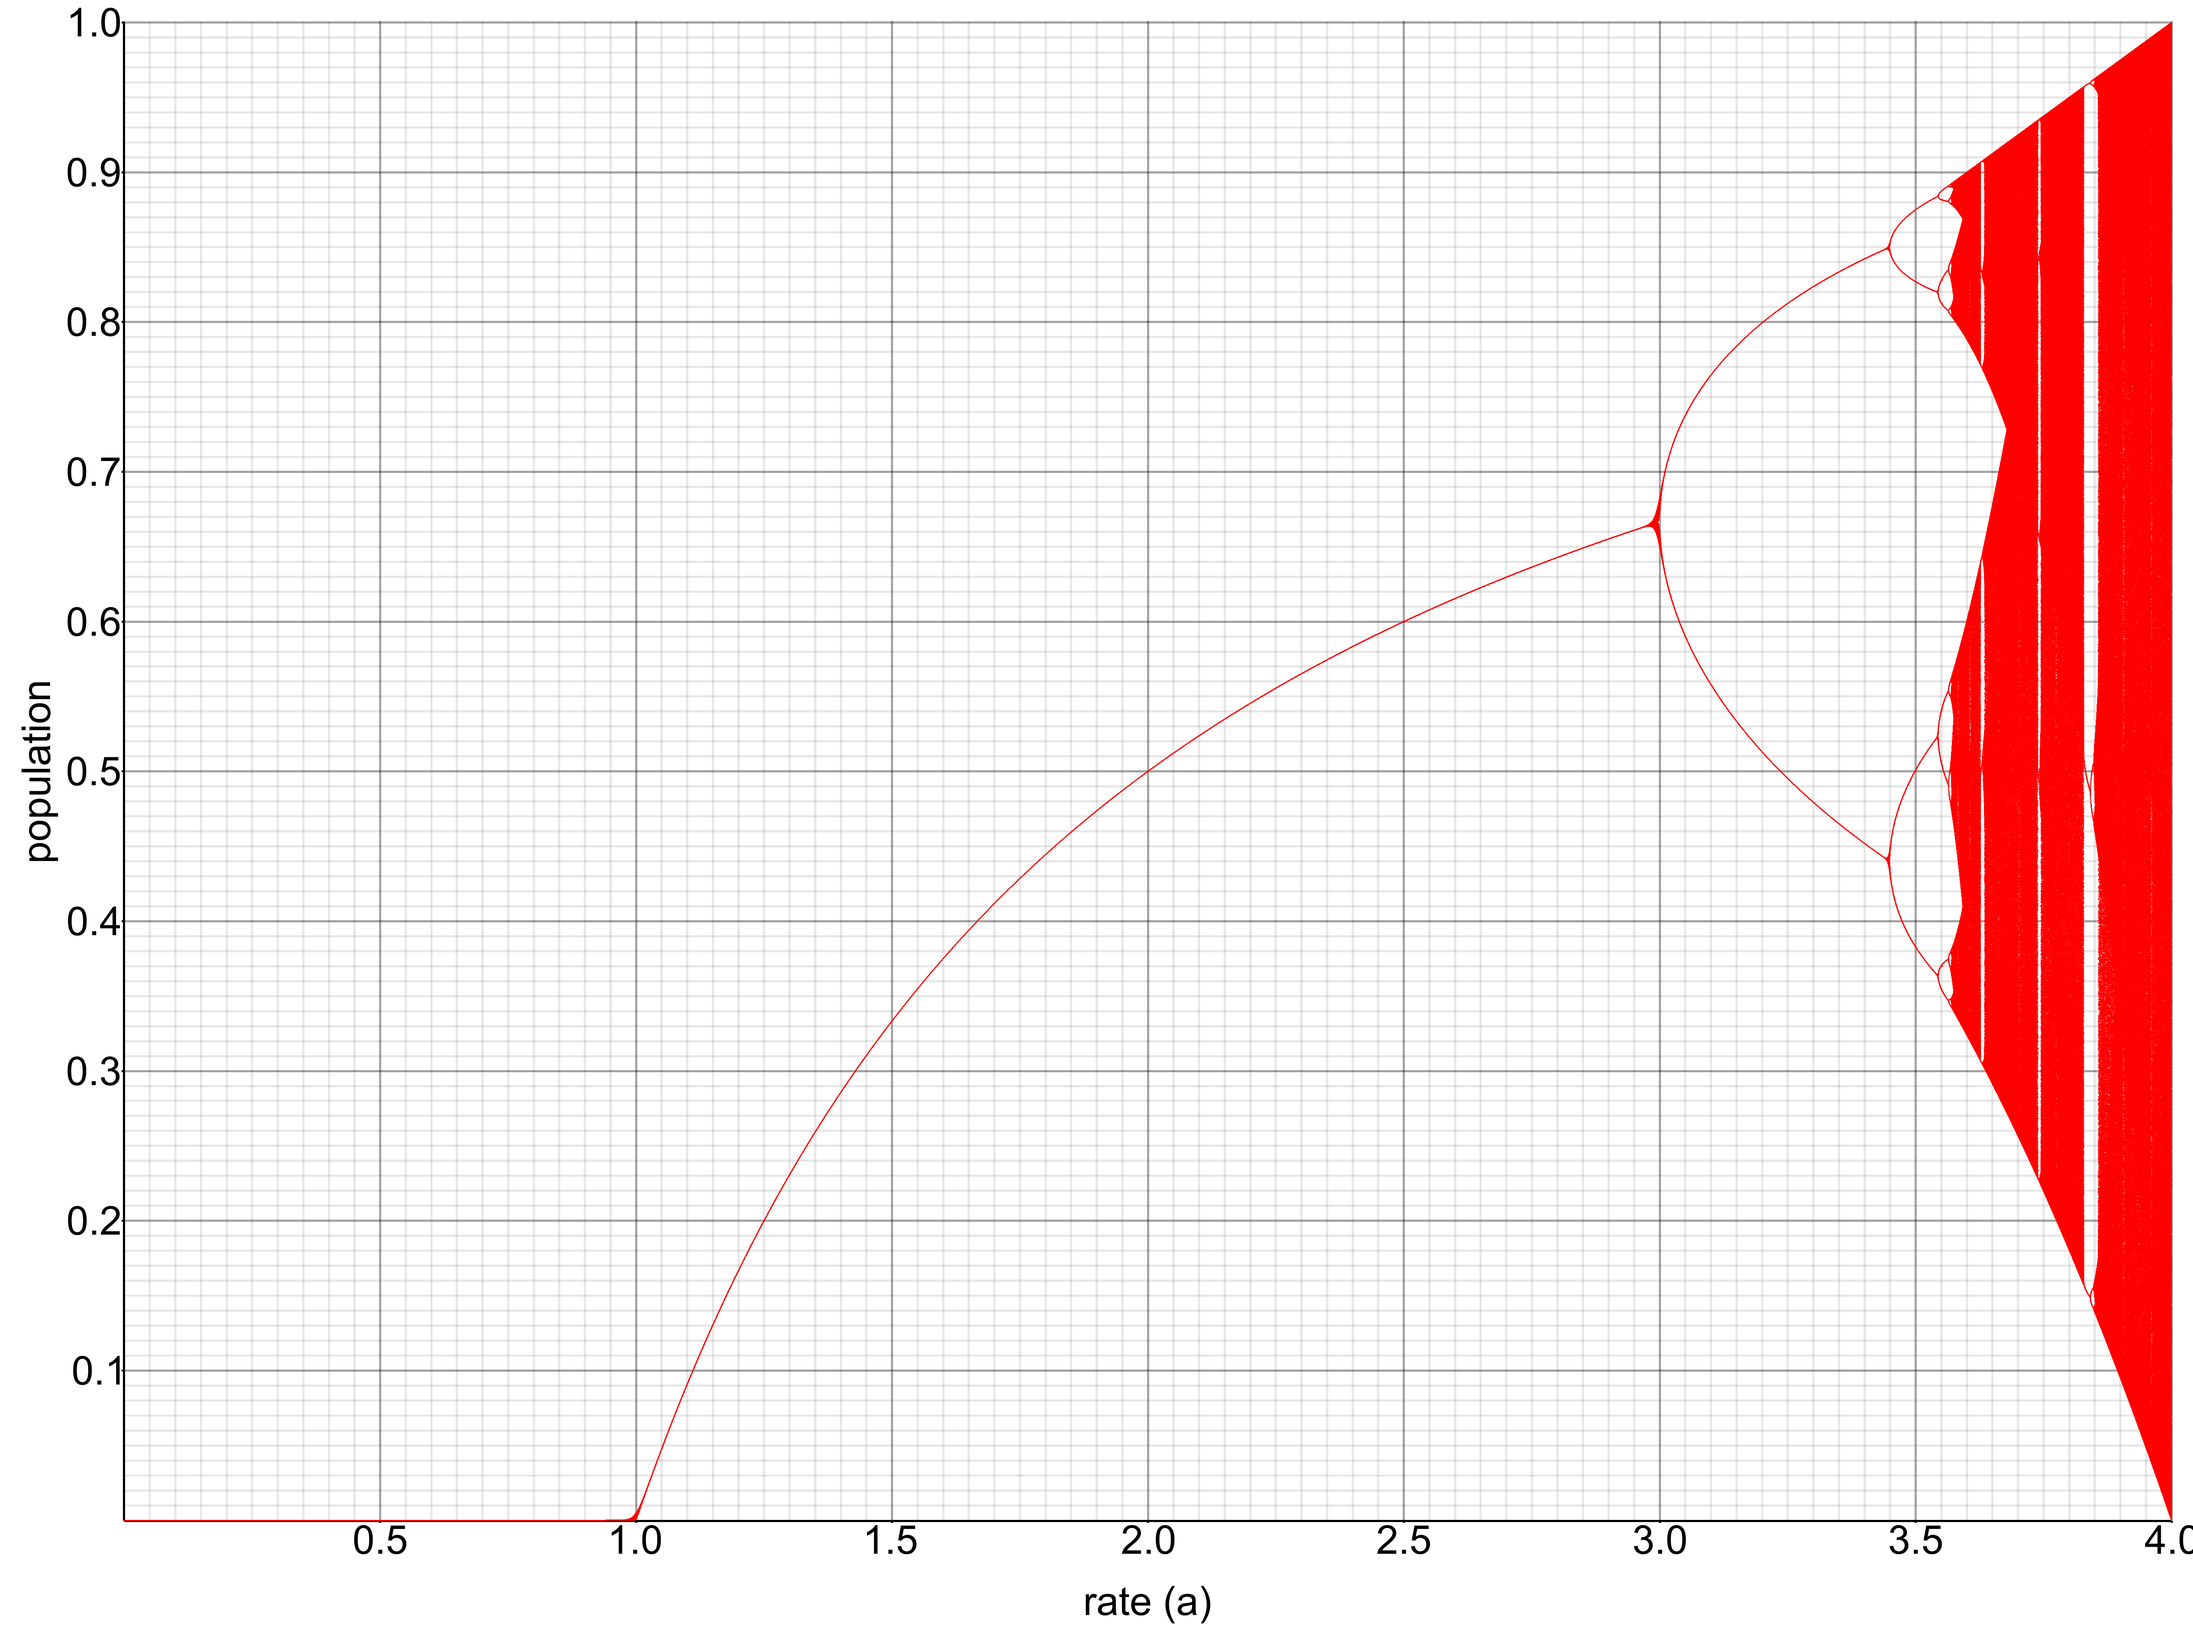
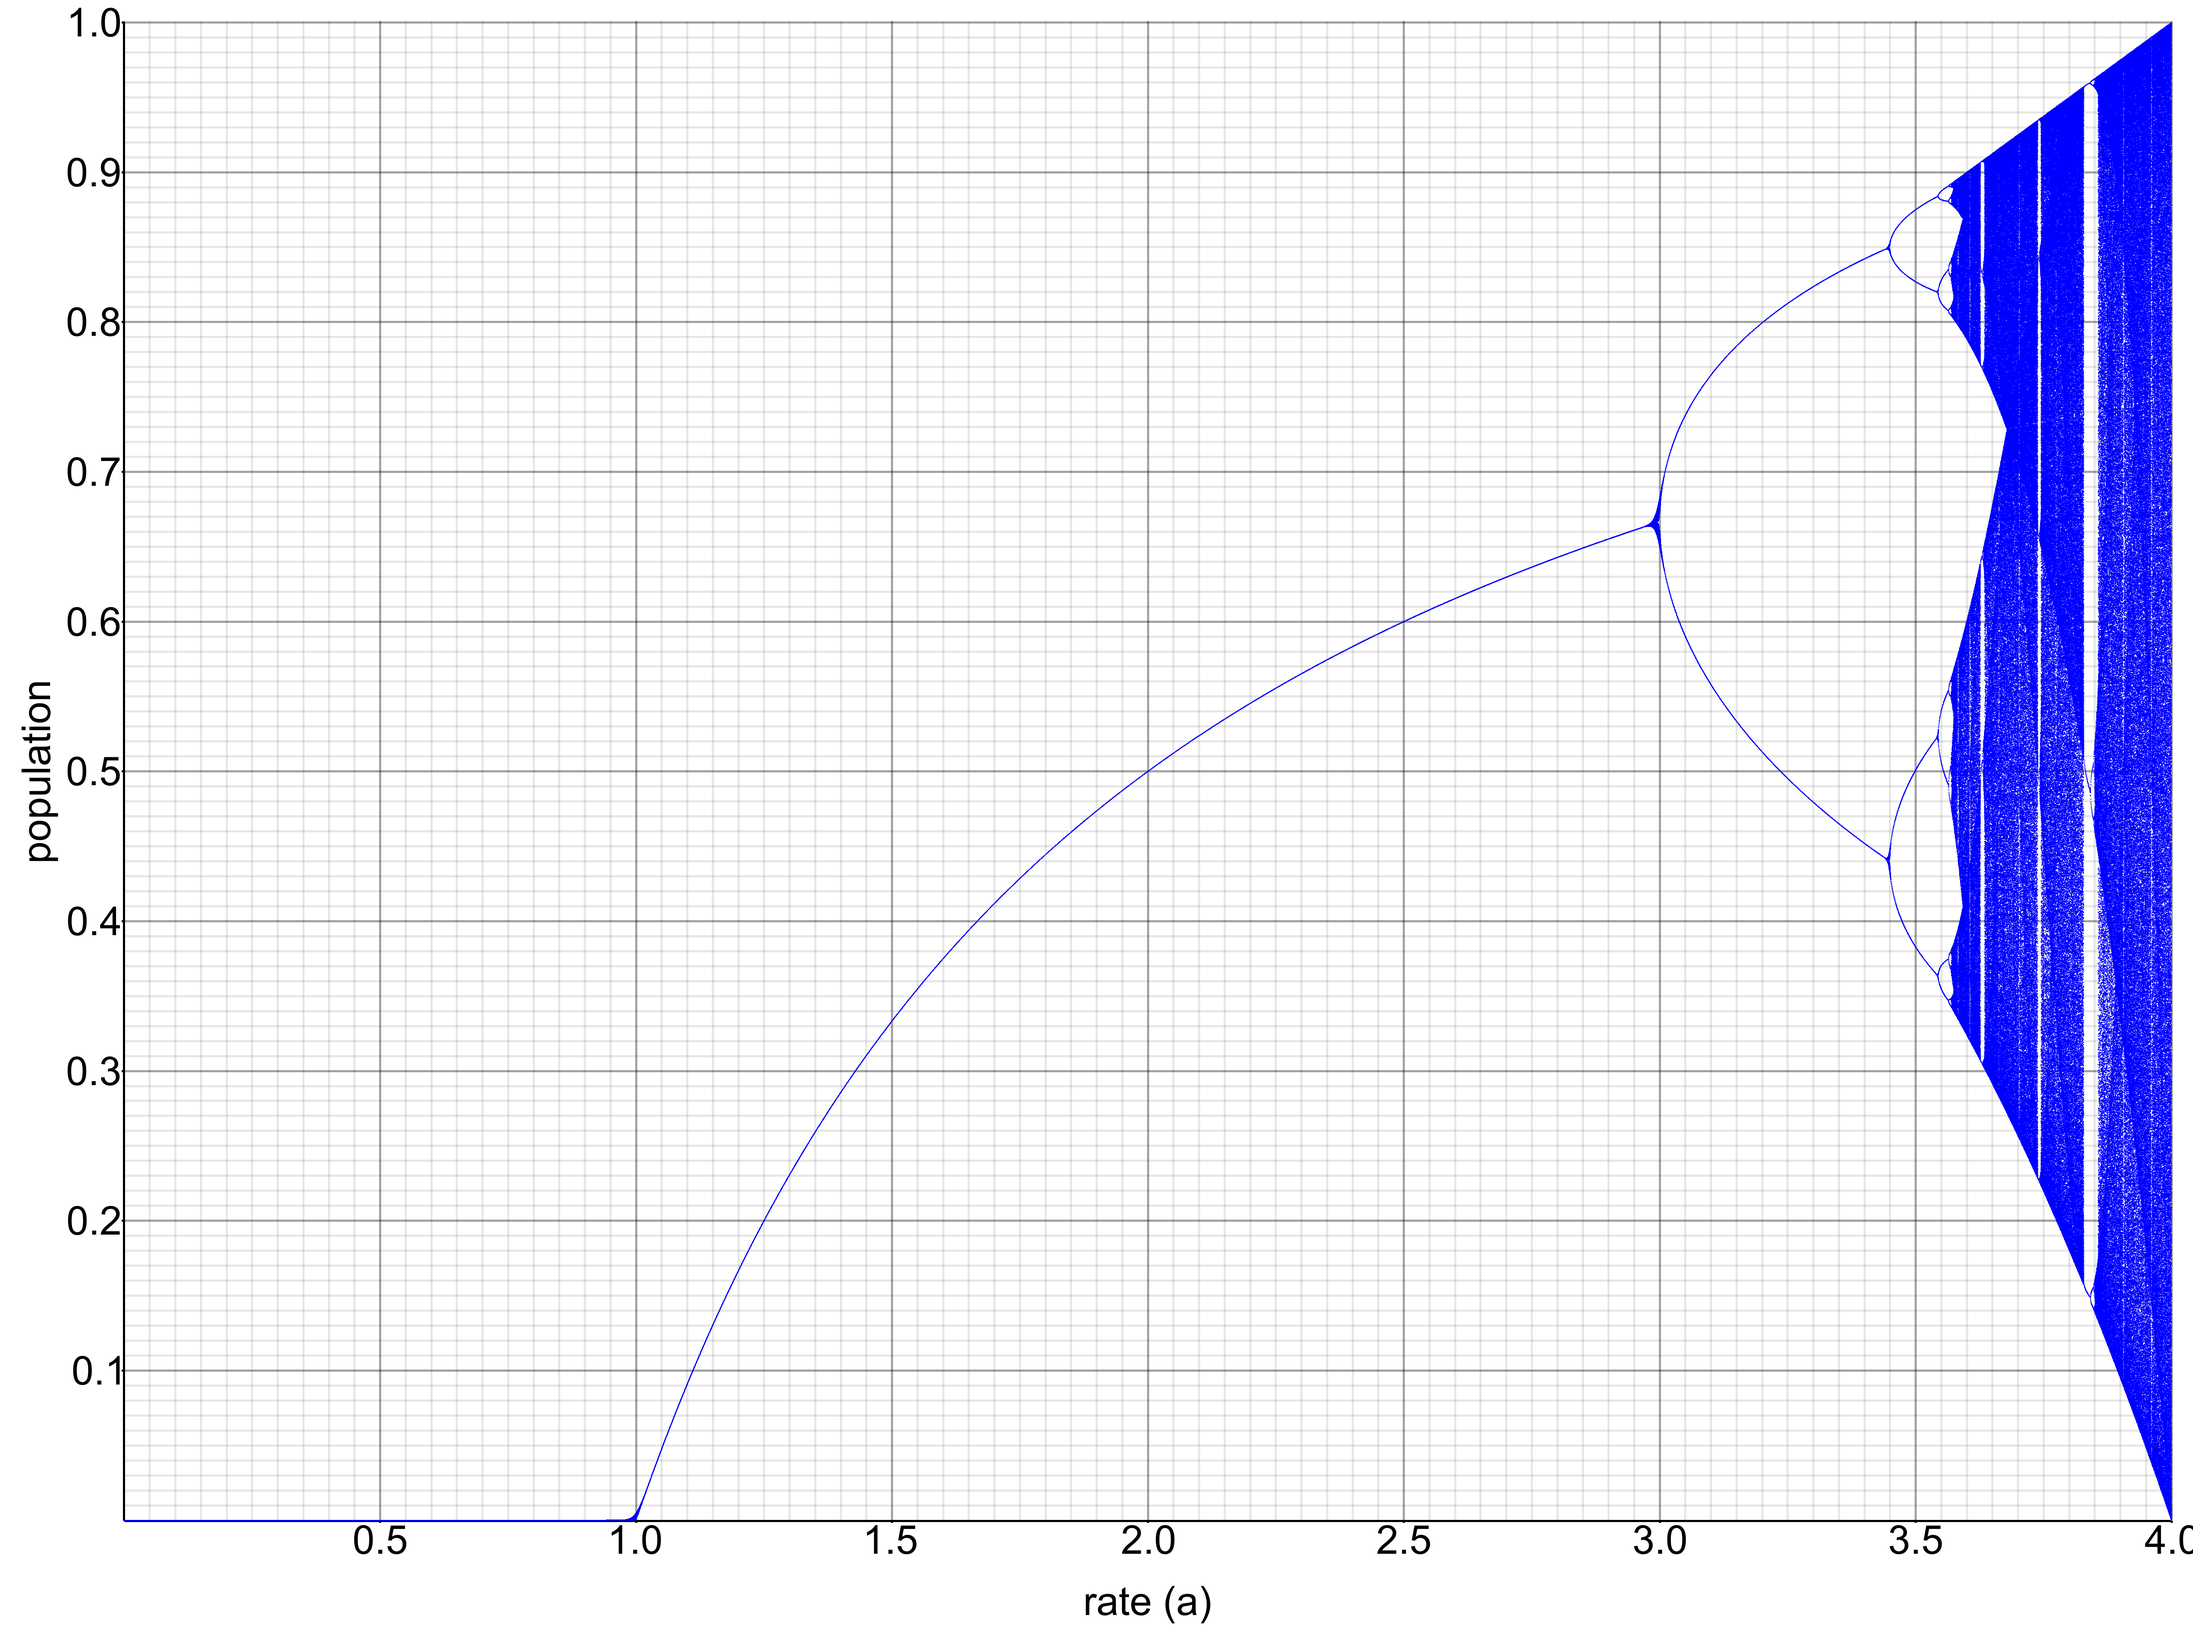
updated colors and resolution

Changed region(s): [[0.875, 0.0, 1.0, 0.9062]]

diff --git a/src/main.rs b/src/main.rs
@@ -25,11 +25,19 @@ fn eps_eq(f1: f32, f2: f32) -> bool {
 const SKIP: usize = 200;
 const GENS: usize = 1000;
 
-const STEPS_PER_INT: f32 = 10000.0;
+/*
+image.png        SIZE
+chaos_small      8
+chaos            24
+chaos_large      40
+chaos_very_large 64
+ */
 
-const SIZE: u32 = 8;
+const SIZE: u32 = 40;
+const FILE: &'static str = "chaos_large.png";
 const BORDER_SIZE: i32 = 30 * SIZE as i32;
 const LABEL_SIZE: i32 = 13 * SIZE as i32;
+const STEPS_PER_INT: f32 = (400 * SIZE) as f32;
 
 fn main() {
     let fill = Instant::now();
@@ -72,7 +80,7 @@ fn main() {
     let build = Instant::now();
     eprintln!("dedup = {:?}", build.duration_since(dedup));
 
-    let root = BitMapBackend::new("chaos_small.png", (640 * SIZE, 480 * SIZE)).into_drawing_area();
+    let root = BitMapBackend::new(FILE, (640 * SIZE, 480 * SIZE)).into_drawing_area();
     root.fill(&WHITE).unwrap();
     let mut chart = ChartBuilder::on(&root)
         .margin(50)
@@ -108,7 +116,7 @@ fn main() {
     chart.draw_series(PointSeries::of_element(
         vec.into_iter().map(|(a, x)| (a as f32, x as f32)),
         1,
-        &RED,
+        &BLUE,
         &|c, s, st| {
             return Circle::new(c, s, st.filled());
         },
